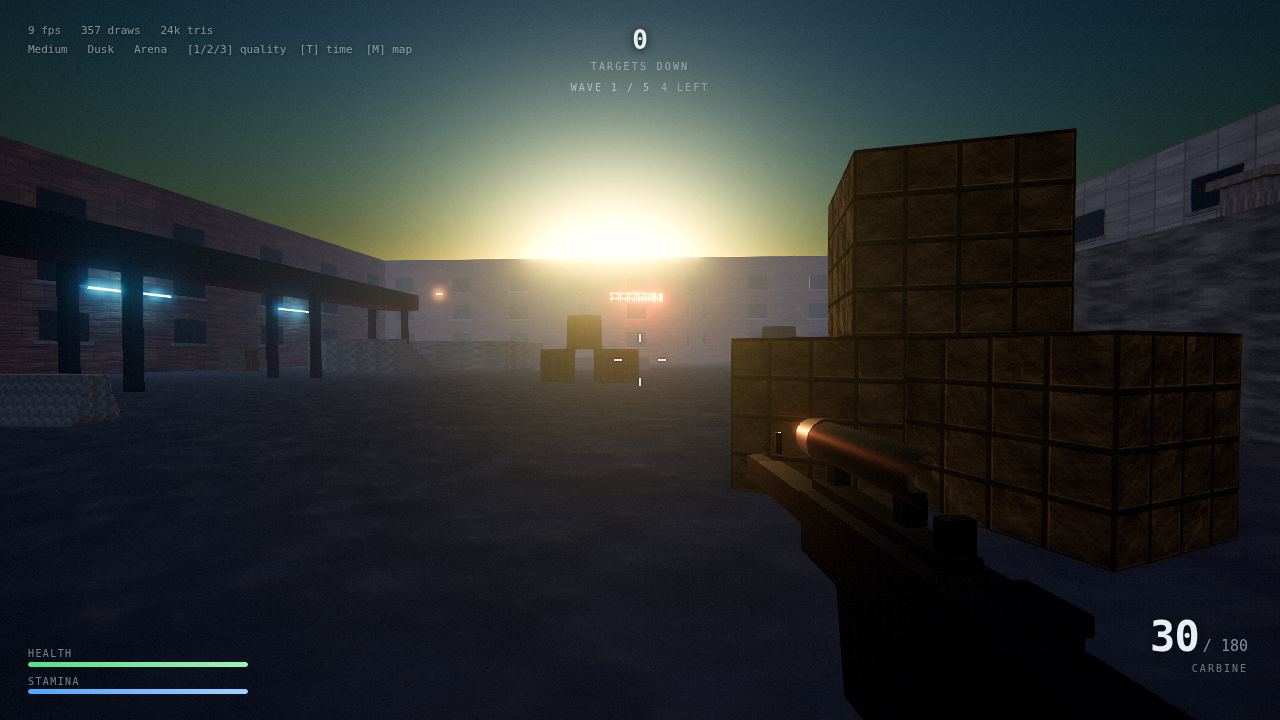
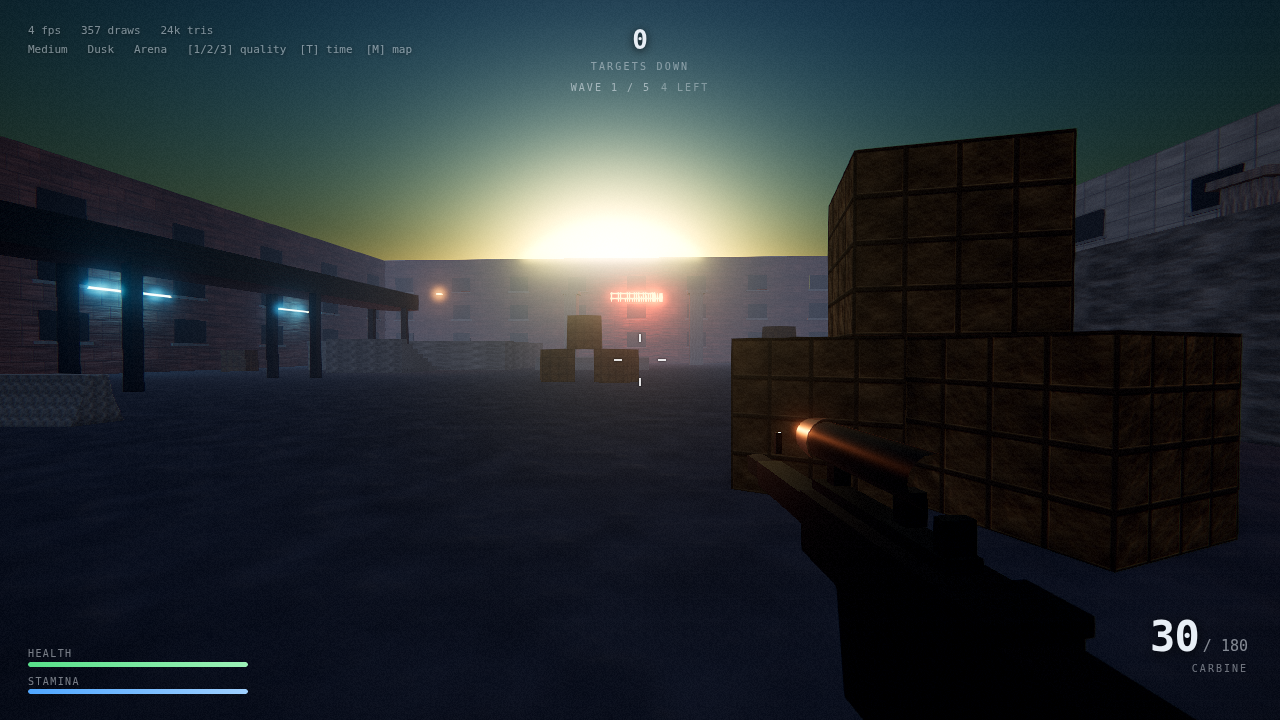
Stop the sun flooding the street
Looking west at Late Afternoon washed the whole frame white: crates, walls
and enemies all flattened to the same value. The cause was the solar disc
clamped at 4.5 feeding UnrealBloomPass at radius 0.55 -- four times the
bloom threshold, spread wide enough to lift everything under it.

What matters is not how bright the sky is. A sky with the sun in it is
supposed to be bright. What matters is how far the glare lifts the street
beneath it, so that is what is measured: mean luma over the lower 60% of
the frame, facing the sun against the same spot with the sun behind.

  clamp 4.5, radius 0.55    street 0.545 vs 0.307    1.78x
  clamp 1.4, radius 0.25    street 0.356 vs 0.284    1.25x

Lowering the clamp alone did not fix it -- at 1.2 the ratio was still over
1.5 -- because the glare is spatial. Radius is the knob that decides
whether the sun glares or floods, and the two have to move together.
Bloom strength is untouched at 0.34, and bloom away from the sun barely
moves: 0.307 to 0.284.

The clamp is a uniform now rather than a constant baked into the shader
string, so it can be swept from the probe instead of guessed at and
rebuilt. It only affects the visible disc: `refreshIBL` zeroes
`showSunDisc` before baking, which is why the away-facing number holds
still while the clamp moves, and how we know scene lighting is untouched.

`npm run probe` now measures this by default and fails over 1.45x, and it
[…]

Changed region(s): [[0.3438, 0.275, 0.6875, 0.6417], [0.5938, 0.6417, 0.625, 0.6722]]

diff --git a/src/world/Environment.js b/src/world/Environment.js
@@ -25,6 +25,34 @@ import { Sky } from 'three/addons/objects/Sky.js';
 // box is clipped away entirely and the sky renders as the clear colour.
 const SKY_RADIUS = 450;
 
+/**
+ * Ceiling on the sky's linear output, which in practice means the solar disc.
+ *
+ * Measured, not chosen. The thing that matters is not how bright the sky is --
+ * a sky with the sun in it SHOULD be bright -- but how much the bloom from it
+ * lifts the street underneath, because that is where the fight is. Measuring
+ * the lower 60% of the frame, with the sun in view against with it behind:
+ *
+ *   clamp 4.5, bloom radius 0.55   street 0.545 vs 0.307   1.78x
+ *   clamp 1.4, bloom radius 0.25   street 0.356 vs 0.284   1.25x
+ *
+ * At 1.78x the crates and facades wash out to flat white and you cannot see
+ * what you are shooting at. Lowering this alone was not enough -- even at 1.2
+ * the ratio stayed above 1.5 -- because the glare is spatial: the fix is this
+ * together with the tighter bloom radius in `Renderer`.
+ *
+ * Note the figures depend on resolution. UnrealBloomPass blurs through a mip
+ * chain, so at a smaller framebuffer the same radius covers proportionally
+ * more of the frame: `npm run probe` measures at 480x270 and reads 1.39x where
+ * 720x405 reads 1.25x. The probe is therefore the conservative instrument, and
+ * its limit is set against its own numbers.
+ *
+ * It only affects the visible disc. `refreshIBL` zeroes `showSunDisc` before
+ * baking, so the away-facing measurement above does not move with it (0.307 ->
+ * 0.306), which is how we know scene lighting is untouched.
+ */
+const SKY_CLAMP = 1.4;
+
 // The preset `envIntensity` values were measured against the procedural sky.
 // The HDRI probe carries different absolute energy, so switching source without
 // rescaling shifts exposure. Measured with `npm run probe` — see README.
@@ -79,13 +107,20 @@ export class Environment {
     // Clamp the sky's linear output. `Sky` emits the solar disc at roughly
     // 7e5, which is physically reasonable and completely unusable: fed into
     // UnrealBloomPass it produces a bloom covering half the frame no matter
-    // what the threshold is. 4.5 still reads as "far brighter than white"
-    // after ACES — the sun is clearly a light source — but keeps the bloom
-    // chain in a range where the threshold actually does something.
-    this.sky.material.fragmentShader = this.sky.material.fragmentShader.replace(
-      'gl_FragColor = vec4( texColor, 1.0 );',
-      'gl_FragColor = vec4( min( texColor, vec3( 4.5 ) ), 1.0 );',
-    );
+    // what the threshold is.
+    //
+    // A uniform rather than a baked constant, because this is the single knob
+    // that decides whether looking at the sun is dramatic or unplayable, and
+    // it has to be sweepable by `npm run probe` rather than guessed at.
+    //
+    // It only affects the visible disc: `refreshIBL` sets `showSunDisc` to 0
+    // before baking, so scene lighting does not move when this does.
+    this.sky.material.uniforms.skyClamp = { value: SKY_CLAMP };
+    this.sky.material.fragmentShader =
+      'uniform float skyClamp;\n' + this.sky.material.fragmentShader.replace(
+        'gl_FragColor = vec4( texColor, 1.0 );',
+        'gl_FragColor = vec4( min( texColor, vec3( skyClamp ) ), 1.0 );',
+      );
     this.sky.material.needsUpdate = true;
 
     this.sky.scale.setScalar( SKY_RADIUS );
@@ -257,6 +292,15 @@ export class Environment {
   /** Flips between the two sources. */
   cycleIblSource() {
     return this.setIblSource( this.iblSource === 'hdri' ? 'procedural' : 'hdri' );
+  }
+
+  /** The solar-disc ceiling. Exposed so the exposure probe can sweep it. */
+  get skyClamp() {
+    return this.sky.material.uniforms.skyClamp.value;
+  }
+
+  set skyClamp( v ) {
+    this.sky.material.uniforms.skyClamp.value = v;
   }
 
   /** Keeps the shadow frustum and the sky dome centred on the player. */

diff --git a/src/core/Renderer.js b/src/core/Renderer.js
@@ -113,7 +113,12 @@ export class Renderer {
     this.bloomPass = new UnrealBloomPass(
       new THREE.Vector2( w, h ),
       0.34,   // strength — restrained; bloom is seasoning, not sauce
-      0.55,   // radius
+      // Radius, not strength, is what decides whether the sun glares or floods.
+      // At 0.55 a sun in frame lifted the street from 0.307 to 0.545 mean luma;
+      // at 0.25, with the solar disc also clamped lower (see Environment.js),
+      // the same view sits at 0.356 and the scene stays readable. Bloom away
+      // from the sun barely moves either way: 0.307 vs 0.284.
+      0.25,   // radius
       1.15,   // threshold: only pixels brighter than white bloom. Below 1.0
               // this catches ordinary sunlit surfaces and the frame hazes over.
     );

diff --git a/CLAUDE.md b/CLAUDE.md
@@ -29,7 +29,7 @@ npm run dev      # Vite dev server
 npm run build    # 產出 dist/
 npm run shots    # headless Chromium 截圖 8 個視角 + smoke test（任何 console error 即失敗）
 npm run shots:levels  # 每張地圖的預算表 + 截圖，並檢查切換地圖不漏記憶體
-npm run probe    # 曝光參數掃描，輸出像素統計
+npm run probe    # 曝光掃描 + 太陽眩光檢查（街道被抬亮超過 1.45 倍就失敗）
 npm test         # 無頭檢查：碰撞粗篩 vs 線性掃描、prism 面朝向、模擬重放一致性
 ```
 
@@ -58,6 +58,11 @@ npm test         # 無頭檢查：碰撞粗篩 vs 線性掃描、prism 面朝向
   `Environment.refreshIBL()` 烘之前會把 `showSunDisc` 設為 0，**不要拿掉**。
 - **`renderer.info.autoReset` 必須是 `false`**。composer 每幀多次 `render()`，開著的話統計只反映最後一個 pass。
 - **`Sky` 的 box 必須在相機 far plane 之內**（目前 450，far 是 800），否則整個被裁掉。
+- **太陽圓盤的亮度鉗值(`SKY_CLAMP`)和 bloom 半徑是一組的。** 單獨調鉗值沒用——
+  眩光是空間性的,要靠半徑收。動任一個都要跑 `npm run probe`,它量的是
+  「面向太陽時街道被抬亮幾倍」,不是天空多亮(天空本來就該亮)。
+- **`UnrealBloomPass` 的擴散和解析度有關。** 它走 mip 鏈,framebuffer 越小、同樣半徑
+  蓋掉的畫面比例越大。probe 在 480×270 量,讀數比實際遊玩解析度保守。
 - **`prisms` 的面朝向用眼睛驗不出來。** 纏繞方向反掉的建築看起來還是實心的 ——
   近側的牆被背面剔除，你看到的是遠側牆的內面。改到 `PrismGeometry.js` 一定要跑 `npm test`。
 - **`sim/` 底下不准碰 camera、mesh、DOM。** 那層是客戶端與伺服器共用的模擬，
